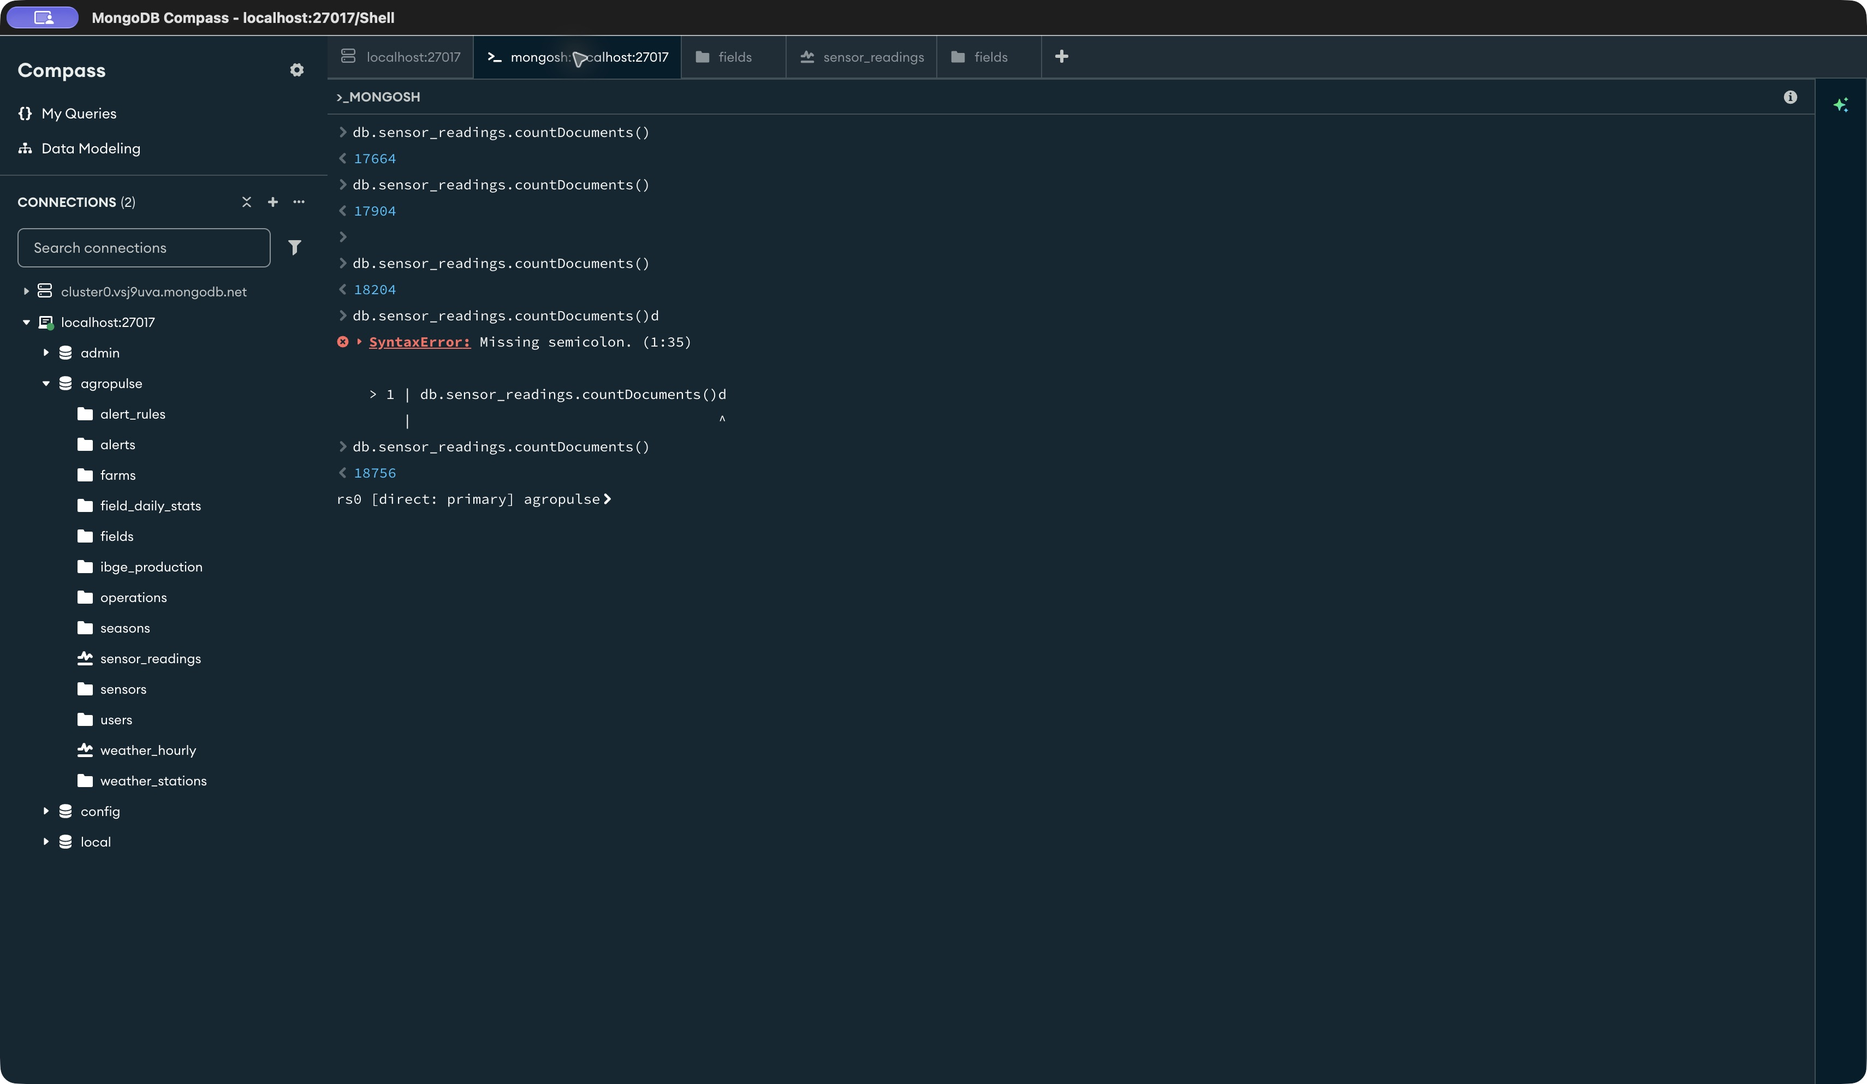
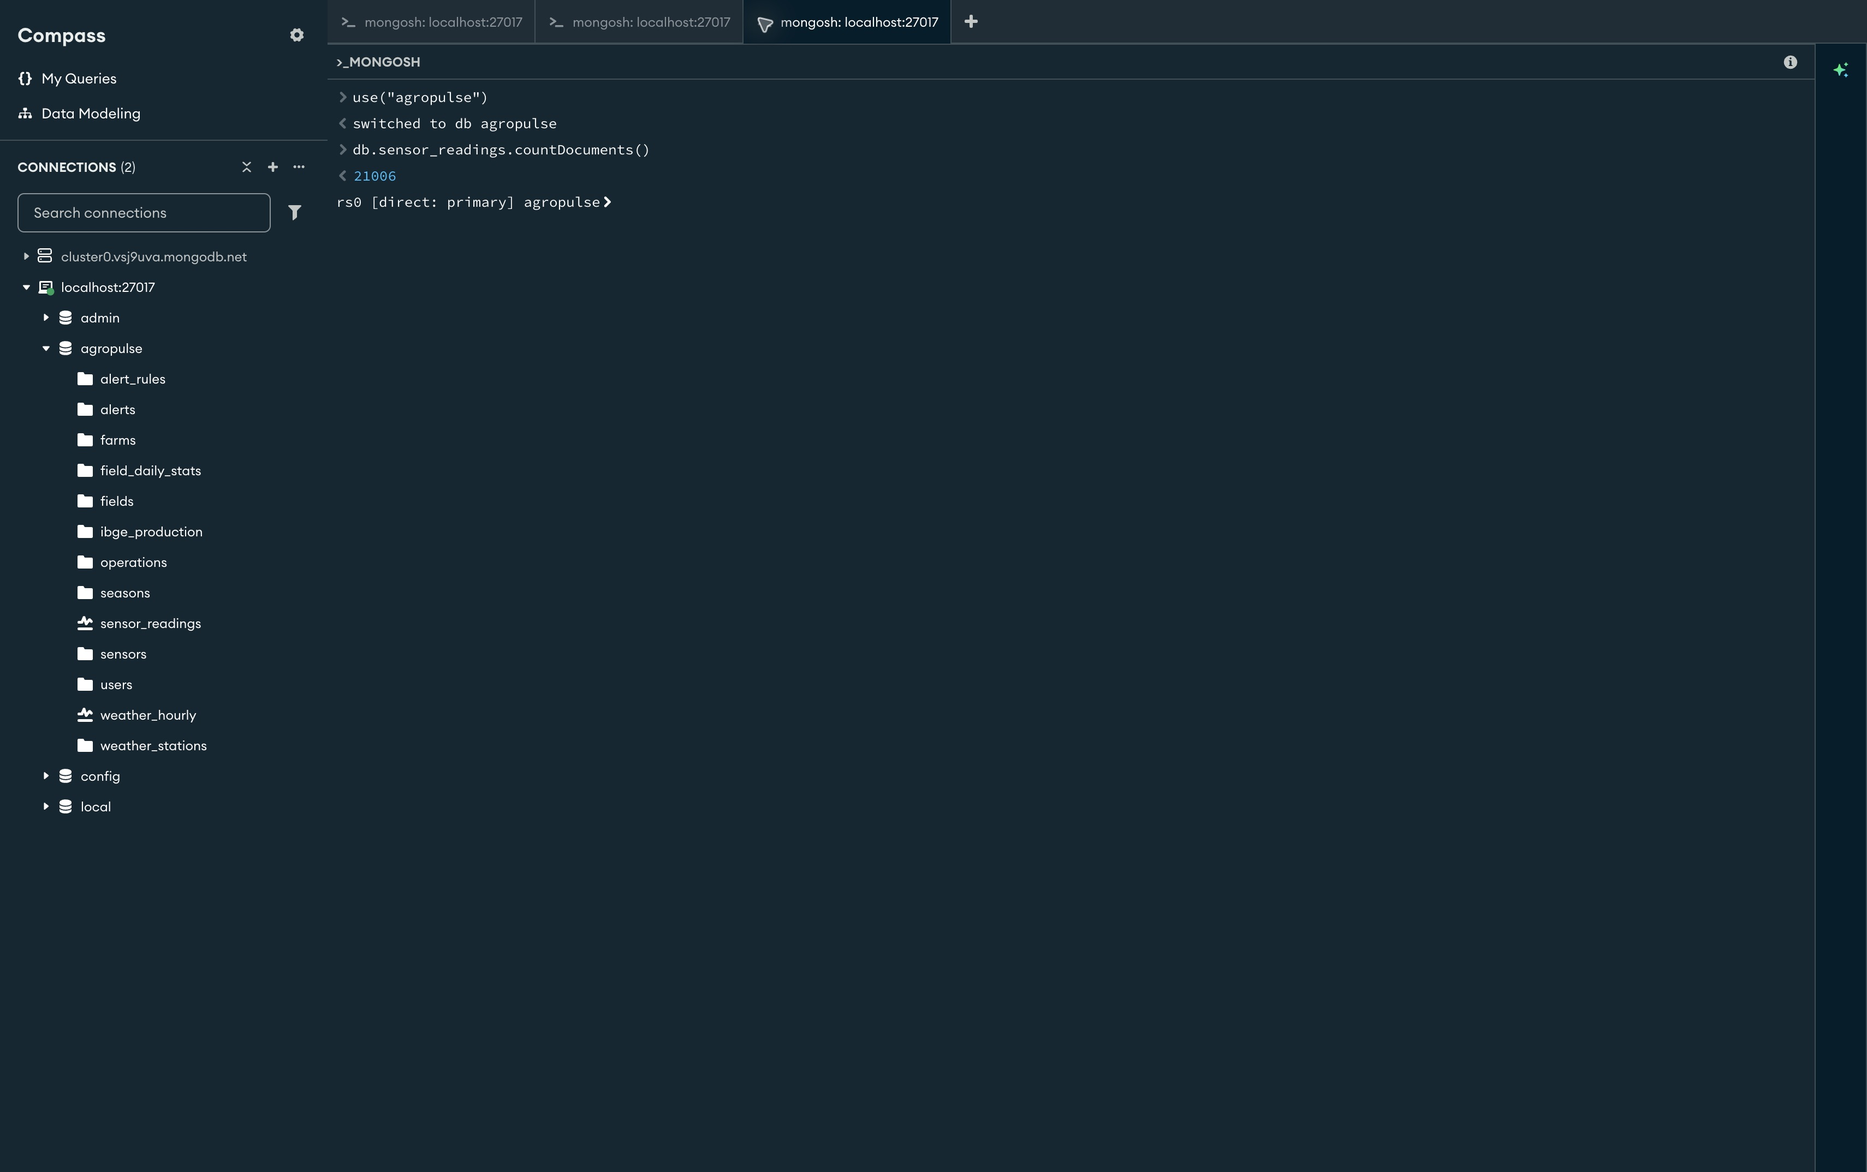
docs: finalizar evidencias do Compass

diff --git a/docs/RELATORIO-MODELO.md b/docs/RELATORIO-MODELO.md
@@ -122,11 +122,11 @@ O documento [docs/MODELO-DADOS.md](MODELO-DADOS.md) contém campos, índices, ex
 | RF09 | Importador SIDRA/PAM e ranking municipal | CSV oficial da PAM/SIDRA 2023 para os 645 municípios de SP em `data/imports/pam-sp-2023.csv`; 1.556 registros completos importados no Mongo local (480 soja, 564 milho, 512 cana), incluindo Pompéia. API autenticada e painel exibiram o ranking de soja de SP. |
 | RF10 | Painel, mapa, clima e ranking | Capturas das telas correspondentes |
 
-A interface Next.js autentica pela API FastAPI e oferece o painel e os formulários dos recursos agrícolas. A API verifica o vínculo entre usuário e fazenda antes de operar sobre os dados. Os workers simulam leituras, avaliam regras, enviam webhooks quando configurados e importam dados públicos. Sem webhook, o sistema registra a entrega do alerta no log local. O roteiro detalhado das telas e da apresentação está em [docs/ROTEIRO-APRESENTACAO.md](ROTEIRO-APRESENTACAO.md); 26 das 28 capturas previstas estão revisadas como finais em `docs/evidencias/`, além de uma imagem complementar do painel. A captura 26 mostra os 24 documentos agregados em `field_daily_stats`. As capturas 15 e 18 precisam ser refeitas sem erros exploratórios.
+A interface Next.js autentica pela API FastAPI e oferece o painel e os formulários dos recursos agrícolas. A API verifica o vínculo entre usuário e fazenda antes de operar sobre os dados. Os workers simulam leituras, avaliam regras, enviam webhooks quando configurados e importam dados públicos. Sem webhook, o sistema registra a entrega do alerta no log local. O roteiro detalhado das telas e da apresentação está em [docs/ROTEIRO-APRESENTACAO.md](ROTEIRO-APRESENTACAO.md); as 28 capturas previstas estão revisadas como finais em `docs/evidencias/`, além de uma imagem complementar do painel. A captura 15 registra 21.006 leituras no momento da consulta; como o simulador continua ativo, a contagem muda durante a execução. A captura 18 confirma o estágio `IXSCAN` pelo índice `crop_1`. A captura 26 mostra os 24 documentos agregados em `field_daily_stats`.
 
 ## 7. Testes e verificações
 
-Esta seção registra as verificações executadas e as capturas que ainda devem ser anexadas. As suítes de API e workers, o build de produção da interface e os manifests/builds locais foram executados. A branch `feature/agropulse-completion` foi publicada. O run #17 do CI no PR #1 passou nos cinco jobs para o commit `c30728c`; a captura 28 registra o run #11 anterior, também aprovado, no commit `e7b3f94`.
+Esta seção registra as verificações executadas e as evidências disponíveis. As suítes de API e workers, o build de produção da interface e os manifests/builds locais foram executados. A branch `feature/agropulse-completion` foi publicada. O run #19 do CI no PR #1 passou nos cinco jobs para o commit `7929bb7`; a captura 28 registra o run #11 anterior, também aprovado, no commit `e7b3f94`.
 
 | Verificação | Resultado observado | Data / evidência |
 |---|---|---|
@@ -137,7 +137,7 @@ Esta seção registra as verificações executadas e as capturas que ainda devem
 | Compose e smoke tests locais | Os três ambientes isolados iniciaram; endpoints de saúde e documentação responderam | Validação local; anexar log/captura |
 | Demonstração em banco vazio | `make demo` em projeto Compose isolado criou seed, 3 talhões e 6 sensores; backfill gerou 12.096 leituras sintéticas de sete dias; importou INMET A763 (8.784 leituras) e PAM/SP (1.556 registros); o rollup criou 24 documentos em `field_daily_stats`. A API autenticada retornou clima 2024 e top 10 do ranking 2023. A segunda execução manteve as contagens, sem backfill duplicado ou resumos diários duplicados. Em revalidação isolada, a stack respondeu no health check e na web e persistiu 12.432 leituras ao vivo/históricas, 24 agregados, 1.556 registros PAM/SP e 8.784 observações INMET/A763. | 2026-10-30 e 2026-10-31; os volumes temporários foram removidos após cada conferência |
 | Fluxo CRUD integrado | Cadastro/login, recursos agrícolas, telemetria simulada, alerta avaliado pelo worker e exclusão da conta temporária concluídos; token revogado retornou 401 | Stack local isolada, 2026-10-30; conta descartável removida, anexar captura se exigida |
-| GitHub Actions remoto | Aprovado em 2026-10-31 nos jobs schema, workers, api, web e compose | Run #17 do PR #1, commit `c30728c`; cinco jobs aprovados. A captura `28-github-actions-verde.png` registra o run #11 anterior (`e7b3f94`), também aprovado. |
+| GitHub Actions remoto | Aprovado em 2026-10-31 nos jobs schema, workers, api, web e compose | Run #19 do PR #1, commit `7929bb7`; cinco jobs aprovados. A captura `28-github-actions-verde.png` registra o run #11 anterior (`e7b3f94`), também aprovado. |
 
 ## 8. Demonstração
 
@@ -159,13 +159,13 @@ Limitações verificadas ou pendentes de evidência:
 - Na validação descartável sem volume, o ZIP oficial do INMET 2024 foi importado com filtro SP após aplicação de `infra/mongo/02-schema.js`: 40 estações e 351.360 observações. A amostra compacta versionada conserva somente o arquivo oficial da A763/Marília (8.784 leituras). `make demo` a carrega para que a demonstração anual funcione em um clone limpo; a API e o painel mostraram A763 a 27,8 km do campus e a última observação em 31/12/2024 23:00 UTC (20:00 no horário local). Ainda falta anexar a captura acadêmica.
 - A fixture SIDRA oficial de Sorriso (MT), ano 2023, valida leitura e parsing e foi importada em um MongoDB temporário sem volume persistente; foram conferidos três documentos (soja, milho e cana). Repetir ou fotografar essa consulta no ambiente de demonstração do grupo, se exigido.
 - A amostra oficial da PAM/SIDRA 2023 para SP está versionada em `data/imports/pam-sp-2023.csv` e é carregada por `make demo` sem consulta externa. O gerador consultou as APIs oficiais e reproduziu o CSV versionado byte a byte. O importador persistiu 1.556 combinações municipais completas; a API autenticada retornou o top 10 de soja por produtividade e o painel exibiu Pompéia na referência oficial regional. Isso não altera a demonstração espacial, que permanece limitada ao campus e a polígonos sintéticos próximos.
-- A branch pública `feature/agropulse-completion` está no remoto `https://github.com/Vitor-Studzieski/AgroPulse` e o PR #1 está aberto para revisão, sem merge. O run #17 do CI no commit `c30728c` passou nos cinco jobs; a captura 28 ainda mostra o run #11 anterior, também aprovado. Faltam recapturar 15 e 18 sem erros exploratórios, inserir os RAs e confirmar a data da apresentação para fechar a versão acadêmica final.
+- A branch pública `feature/agropulse-completion` está no remoto `https://github.com/Vitor-Studzieski/AgroPulse` e o PR #1 está aberto para revisão, sem merge. O run #19 do CI no commit `7929bb7` passou nos cinco jobs; a captura 28 mostra o run #11 anterior, também aprovado. As capturas 15 e 18 foram refeitas no Compass sem erros exploratórios; ainda faltam inserir os RAs e confirmar a data da apresentação para fechar a versão acadêmica final.
 
 Como trabalhos futuros, podem ser considerados autenticação de dispositivos e ingestão por gateway, exportação do relatório de safra e avaliação com uma carga de dados maior, preservando os limites financeiros definidos.
 
 ## 10. Conclusão
 
-O AgroPulse reúne CRUD agrícola, persistência MongoDB, telemetria, geodados, análises e workers em uma solução local reproduzível. A conclusão acadêmica depende de executar o roteiro, recapturar 15 e 18 sem erros exploratórios, completar os RAs e confirmar a data da apresentação.
+O AgroPulse reúne CRUD agrícola, persistência MongoDB, telemetria, geodados, análises e workers em uma solução local reproduzível. A conclusão acadêmica depende de executar o roteiro, completar os RAs e confirmar a data da apresentação.
 
 ## Referências
 
@@ -195,10 +195,10 @@ Use os nomes previstos pelo guia e marque o estado após incluir cada arquivo em
 | 12 | `12-schema-js.png` | [x] |
 | 13 | `13-codigo-merge.png` | [x] |
 | 14 | `14-codigo-change-stream.png` | [x] |
-| 15 | `15-count-leituras.png` | [ ] |
+| 15 | `15-count-leituras.png` | [x] |
 | 16 | `16-getcollectioninfos-timeseries.png` | [x] |
 | 17 | `17-validacao-erro.png` | [x] |
-| 18 | `18-explain-ixscan.png` | [ ] |
+| 18 | `18-explain-ixscan.png` | [x] |
 | 19 | `19-geointersects.png` | [x] |
 | 20 | `20-agregacao-media-diaria.png` | [x] |
 | 21 | `21-compass-colecoes.png` | [x] |

diff --git a/docs/REQUISITOS.md b/docs/REQUISITOS.md
@@ -27,7 +27,7 @@ Esta matriz converte os requisitos do guia de engenharia (seções 2–14) em ev
 | Persistência MongoDB | `infra/mongo/01-replica-set.js`, `02-schema.js` e `03-verify-schema.js`; coleções, time series, índices, validações, TTL e plano `IXSCAN` | A compatibilidade exata dos comandos do schema depende do tier MongoDB usado; o job de CI aplica e verifica em MongoDB 7 limpo. O Atlas Free usa MongoDB 8.0, então o schema hospedado ainda precisa de validação específica antes da publicação. |
 | Reprodutibilidade | `make demo` inicia a stack integrada, aplica o seed idempotente, gera sete dias de telemetria histórica, inicia a simulação ao vivo, importa as amostras oficiais limitadas de INMET/IBGE e executa o rollup inicial; o serviço integrado atualiza os resumos diariamente. Três Compose isolam web, API e workers; o front tem `package-lock.json`; API e workers têm locks Python transitivos, universais para Python 3.12 e com hashes, consumidos por Docker e CI | Exige Docker; consultas às APIs oficiais são necessárias apenas para atualizar as amostras. Atualizar uma dependência exige alterar a versão direta e regenerar os locks com `uv pip compile`. |
 | Recuperação automática | Restart policies Compose; supervisor da imagem Render; preenchimento de lacunas limitado; recuperação de alertas pendentes | Render Free hiberna quando ocioso; não promete 24/7, SLA ou execução contínua dos workers |
-| CI em cada push e PR | `.github/workflows/ci.yml`: lint/teste, sintaxe do gerador PAM, build web, schema, manifests e imagem Render | O PR #1 está aberto e publicado. O run #17, no commit `c30728c`, passou nos cinco jobs (API, workers, web, schema e Compose). |
+| CI em cada push e PR | `.github/workflows/ci.yml`: lint/teste, sintaxe do gerador PAM, build web, schema, manifests e imagem Render | O PR #1 está aberto e publicado. O run #19, no commit `7929bb7`, passou nos cinco jobs (API, workers, web, schema e Compose). |
 | Custo de armazenamento Atlas | TTL de 30 dias no Blueprint, importação limitada e rollup | Atlas Free tem teto de dados + índices; monitorar e reduzir a carga ao aproximar do limite |
 
 ## Verificações locais concluídas
@@ -54,18 +54,18 @@ Esta matriz converte os requisitos do guia de engenharia (seções 2–14) em ev
 - Após reconstruir somente o serviço web, o Chrome recarregou a demonstração com a janela recente vazia e selecionou automaticamente `Ano 2024`; o painel exibiu as observações oficiais da A763 até 31/12/2024 às 20:00 no horário local. A captura acadêmica correspondente ainda precisa ser salva pelo grupo.
 - Fluxo integrado exercitado em stack Docker isolada com usuário sintético descartável: cadastro/login/perfil; CRUD de fazenda, talhão, safra, operação, sensor e regra de alerta; leitura emitida pelo simulador; alerta criado e avaliado pelo worker, resolvido e removido; exclusão dos recursos e da conta de teste; token revogado respondeu 401. Os dados do teste foram removidos e o volume da stack de demonstração foi preservado.
 - Revalidação da stack integrada no checkout atual: `docker ps` mostrou MongoDB saudável e os serviços API, web, simulador, alertas e rollup em execução; `GET /health` retornou `{"status":"ok"}` e a página web retornou HTTP 200.
-- Workflow GitHub Actions verificado no PR #1: o run #17, no commit `c30728c`, terminou com sucesso nos jobs `schema`, `workers`, `api`, `web` e `compose`. O workflow executa em pushes e pull requests. A captura 28 registra o run #11 anterior, igualmente aprovado.
+- Workflow GitHub Actions verificado no PR #1: o run #19, no commit `7929bb7`, terminou com sucesso nos jobs `schema`, `workers`, `api`, `web` e `compose`. O workflow executa em pushes e pull requests. A captura 28 registra o run #11 anterior, igualmente aprovado.
 - Revalidação de `make demo` em um projeto Compose temporário: API `/health` retornou `{"status":"ok"}`, web respondeu HTTP 200; o MongoDB registrou 3 talhões, 6 sensores, 12.432 leituras, 24 agregados diários, 1.556 registros PAM/SP e 8.784 observações INMET/A763. O projeto e seu volume temporário foram removidos após a conferência.
 - Os três Compose isolados iniciaram. Web/Mock API e API isolada responderam 200; API e imagem Render passaram health GET/HEAD e `/docs`. O worker isolado iniciou com 6 sensores, 3 regras e leituras geradas.
 - Os containers de validação foram encerrados com `down` normal; os volumes foram preservados. `git diff --check` passou.
 
 ## Evidências acadêmicas pendentes do grupo
 
-O guia também exige relatório, 28 capturas nomeadas, identificação dos integrantes, link do GitHub e apresentação em laboratório. Os nomes completos de Vitor Studzieski, Maria Fernanda Passos e Lauan Alves Ferneda já foram informados e constam em `docs/RELATORIO-MODELO.md`; o remoto público `https://github.com/Vitor-Studzieski/AgroPulse` foi confirmado. Há 26 capturas finais revisadas, incluindo a captura de índices `fields` confirmada na tela e o documento agregado da coleção `field_daily_stats` na captura 26. Os arquivos 15 e 18 existem, mas devem ser recapturados sem os erros exploratórios que aparecem na tela. Os RAs e a data da apresentação ainda precisam ser informados pelo grupo. A branch `feature/agropulse-completion` está publicada no PR #1, aberto e sem merge; o run #17 do commit `c30728c` passou nos cinco jobs. A captura 28 mostra o run #11 anterior, também aprovado.
+O guia também exige relatório, 28 capturas nomeadas, identificação dos integrantes, link do GitHub e apresentação em laboratório. Os nomes completos de Vitor Studzieski, Maria Fernanda Passos e Lauan Alves Ferneda já foram informados e constam em `docs/RELATORIO-MODELO.md`; o remoto público `https://github.com/Vitor-Studzieski/AgroPulse` foi confirmado. As 28 capturas finais foram revisadas, incluindo a captura de índices `fields`, as evidências novas de contagem e plano `IXSCAN` e o documento agregado da coleção `field_daily_stats` na captura 26. Os RAs e a data da apresentação ainda precisam ser informados pelo grupo. A branch `feature/agropulse-completion` está publicada no PR #1, aberto e sem merge; o run #19 do commit `7929bb7` passou nos cinco jobs. A captura 28 mostra o run #11 anterior, também aprovado.
 
 ## Pendências priorizadas
 
-1. **Completar as evidências acadêmicas:** inserir os RAs em `docs/RELATORIO-MODELO.md`, recapturar 15 e 18 sem os erros exploratórios; confirmar a data e ensaiar a apresentação. Repetir ou fotografar a consulta INMET no banco que será usado pelo grupo, se a atividade exigir evidência dentro do relatório.
+1. **Completar as evidências acadêmicas:** inserir os RAs em `docs/RELATORIO-MODELO.md`; confirmar a data e ensaiar a apresentação. Repetir ou fotografar a consulta INMET no banco que será usado pelo grupo, se a atividade exigir evidência dentro do relatório.
 2. **Manter os checks e a revisão do PR:** o PR #1 está aberto. Conferir o CI a cada nova atualização e não mesclar antes de todos os checks ficarem verdes e de a revisão final ser concluída.
 3. **Publicação externa opcional:** o Blueprint está pronto, mas permanece sem deploy conforme a restrição do usuário. Só criar serviços se o responsável confirmar custo zero, ausência de cartão/trial/upgrade e compatibilidade com os termos vigentes.
 

diff --git a/docs/evidencias/README.md b/docs/evidencias/README.md
@@ -4,7 +4,7 @@ Salve as capturas listadas no apêndice A de [RELATORIO-MODELO.md](../RELATORIO-
 
 Use apenas dados de demonstração nos prints. Não inclua senhas, tokens, strings de conexão, dados pessoais ou credenciais de serviços. Para GitHub Actions, capture o resultado real depois que o workflow remoto for executado; não produza uma imagem ilustrativa no lugar do check.
 
-Das 28 capturas previstas no apêndice A, os 28 arquivos numerados estão salvos. Vinte e seis foram revisados como finais: `01-login.png` a `14-codigo-change-stream.png`, `16-getcollectioninfos-timeseries.png`, `17-validacao-erro.png`, `19-geointersects.png`, `20-agregacao-media-diaria.png`, `21-compass-colecoes.png`, `22-documento-fields.png`, `23-documento-sensor-reading.png`, `24-indices-fields.png`, `25-validacao-farms.png`, `26-field-daily-stats.png`, `27-github-repo.png` e `28-github-actions-verde.png`. As imagens 15 e 18 mostram os resultados esperados, mas também incluem erros exploratórios anteriores e devem ser recapturadas. A captura 26 mostra a coleção `field_daily_stats` com 24 documentos agregados. A captura Swagger mostra a rota pública `GET /health` e a resposta HTTP 200 (`{"status":"ok"}`). `painel-visao-geral.png` é uma imagem complementar do dashboard. As telas de Safras e Operações mostram estados vazios reais da demonstração; não foram criados registros apenas para preencher capturas. A imagem 28 registra o run #11 do commit `e7b3f94`; os cinco jobs do GitHub Actions passaram. Os runs #13 (`d3c7379`) e #17 (`c30728c`) também passaram nos cinco jobs; o #17 corresponde à revisão mais recente da branch. Os RAs e a data da apresentação devem ser completados pelo grupo antes da entrega.
+Das 28 capturas previstas no apêndice A, os 28 arquivos numerados estão salvos e revisados como finais. As capturas 15 e 18 foram refeitas no Compass em uma aba limpa: a contagem mostrou 21.006 leituras no instante da captura, e a consulta `explain` confirmou `IXSCAN` pelo índice `crop_1`. A captura 26 mostra a coleção `field_daily_stats` com 24 documentos agregados. A captura Swagger mostra a rota pública `GET /health` e a resposta HTTP 200 (`{"status":"ok"}`). `painel-visao-geral.png` é uma imagem complementar do dashboard. As telas de Safras e Operações mostram estados vazios reais da demonstração; não foram criados registros apenas para preencher capturas. A imagem 28 registra o run #11 do commit `e7b3f94`; os cinco jobs do GitHub Actions passaram. Os runs #13 (`d3c7379`), #17 (`c30728c`) e #19 (`7929bb7`) também passaram nos cinco jobs; o #19 corresponde ao commit que precedeu esta atualização final das evidências. Os RAs e a data da apresentação devem ser completados pelo grupo antes da entrega.
 
 ## Conteúdo de cada captura
 
@@ -21,6 +21,6 @@ Use esta lista para conferir o enquadramento antes de marcar um item como conclu
 | `19-geointersects` | Compass mongosh: consultar `fields.boundary` com `$geoIntersects` no ponto do campus `[-50.1994, -22.1110]`; mostrar o talhão de demonstração retornado. |
 | `20-agregacao-media-diaria` | Compass mongosh: média diária de `soil_moisture` agrupada por talhão e dia, conforme consulta em `docs/MODELO-DADOS.md`. |
 | `21-compass-colecoes`, `22-documento-fields`, `23-documento-sensor-reading`, `24-indices-fields`, `25-validacao-farms`, `26-field-daily-stats` | Compass: lista de coleções; documento de `fields`; documento em `sensor_readings`; índices de `fields`; validação de `farms`; documento agregado em `field_daily_stats`. `make demo` executa o rollup inicial. |
-| `27-github-repo`, `28-github-actions-verde` | Branch público `feature/agropulse-completion` e PR #1 aberto. A captura 28 mostra os cinco jobs aprovados no run #11 (`e7b3f94`); os runs #13 (`d3c7379`) e #17 (`c30728c`) também passaram nos cinco jobs. O PR permanece aberto para revisão. |
+| `27-github-repo`, `28-github-actions-verde` | Branch público `feature/agropulse-completion` e PR #1 aberto. A captura 28 mostra os cinco jobs aprovados no run #11 (`e7b3f94`); os runs #13 (`d3c7379`), #17 (`c30728c`) e #19 (`7929bb7`) também passaram nos cinco jobs. O PR permanece aberto para revisão. |
 
-Para os itens 15–20, mantenha comando e resposta na mesma captura. Não mostre tokens, senhas, connection strings, dados pessoais ou documentos fora da demonstração. Os itens 21–28 já foram conferidos visualmente. Os itens 15 e 18 precisam ser recapturados sem os erros exploratórios.
+Para os itens 15–20, mantenha comando e resposta na mesma captura. Não mostre tokens, senhas, connection strings, dados pessoais ou documentos fora da demonstração. Os itens 15–28 foram conferidos visualmente.
